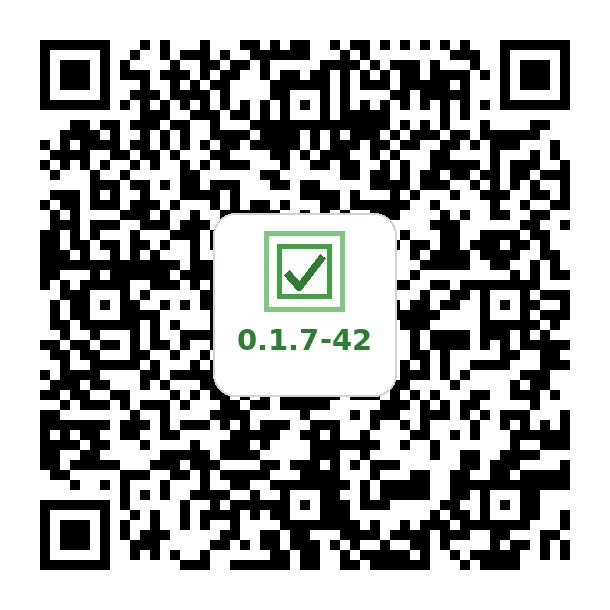
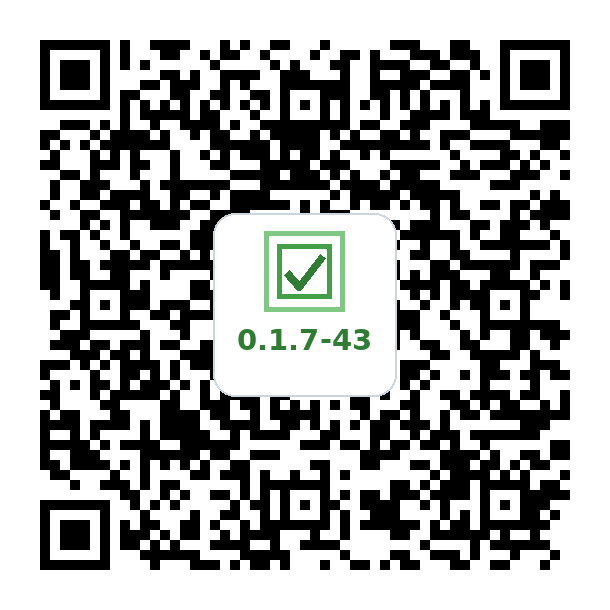
deploy: eeb200facef0431667f07af063b52de1b7574f5c

Changed region(s): [[0.0623, 0.0623, 0.9344, 0.9344], [0.623, 0.5295, 0.6541, 0.5607], [0.5918, 0.5607, 0.623, 0.5918]]

diff --git a/index.html b/index.html
@@ -209,11 +209,11 @@
           </div>
             <div class="qr-container">
             <div class="qr-label">background-tasking</div>
-            <img src="qr.png" alt="MicroTasking APK QR Code (v0.1.7-42)">
+            <img src="qr.png" alt="MicroTasking APK QR Code (v0.1.7-43)">
             <br>
-            <a href="https://github.com/vemcg/MicroTasking/releases/download/v0.1.7-42/MicroTasking-v0.1.7-42.apk" class="btn" target="_blank" rel="noopener">Download MicroTasking APK (v0.1.7-42)</a>
+            <a href="https://github.com/vemcg/MicroTasking/releases/download/v0.1.7-43/MicroTasking-v0.1.7-43.apk" class="btn" target="_blank" rel="noopener">Download MicroTasking APK (v0.1.7-43)</a>
             <br>
-            <a href="https://github.com/vemcg/MicroTasking/releases/download/v0.1.7-42/MicroTasking-v0.1.7-42.apk" target="_blank" rel="noopener">Open the download again</a>
+            <a href="https://github.com/vemcg/MicroTasking/releases/download/v0.1.7-43/MicroTasking-v0.1.7-43.apk" target="_blank" rel="noopener">Open the download again</a>
           </div>
           </div>
         </li>
